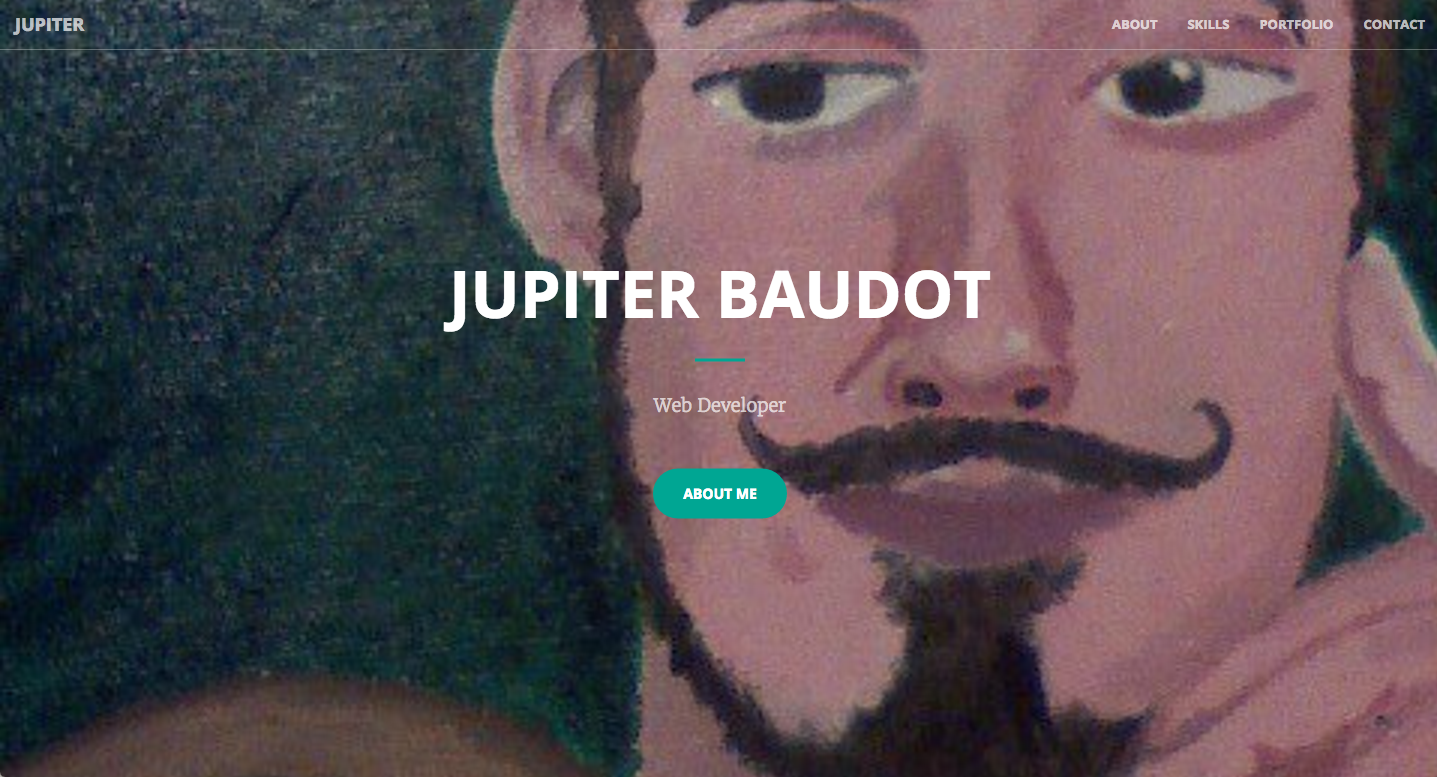
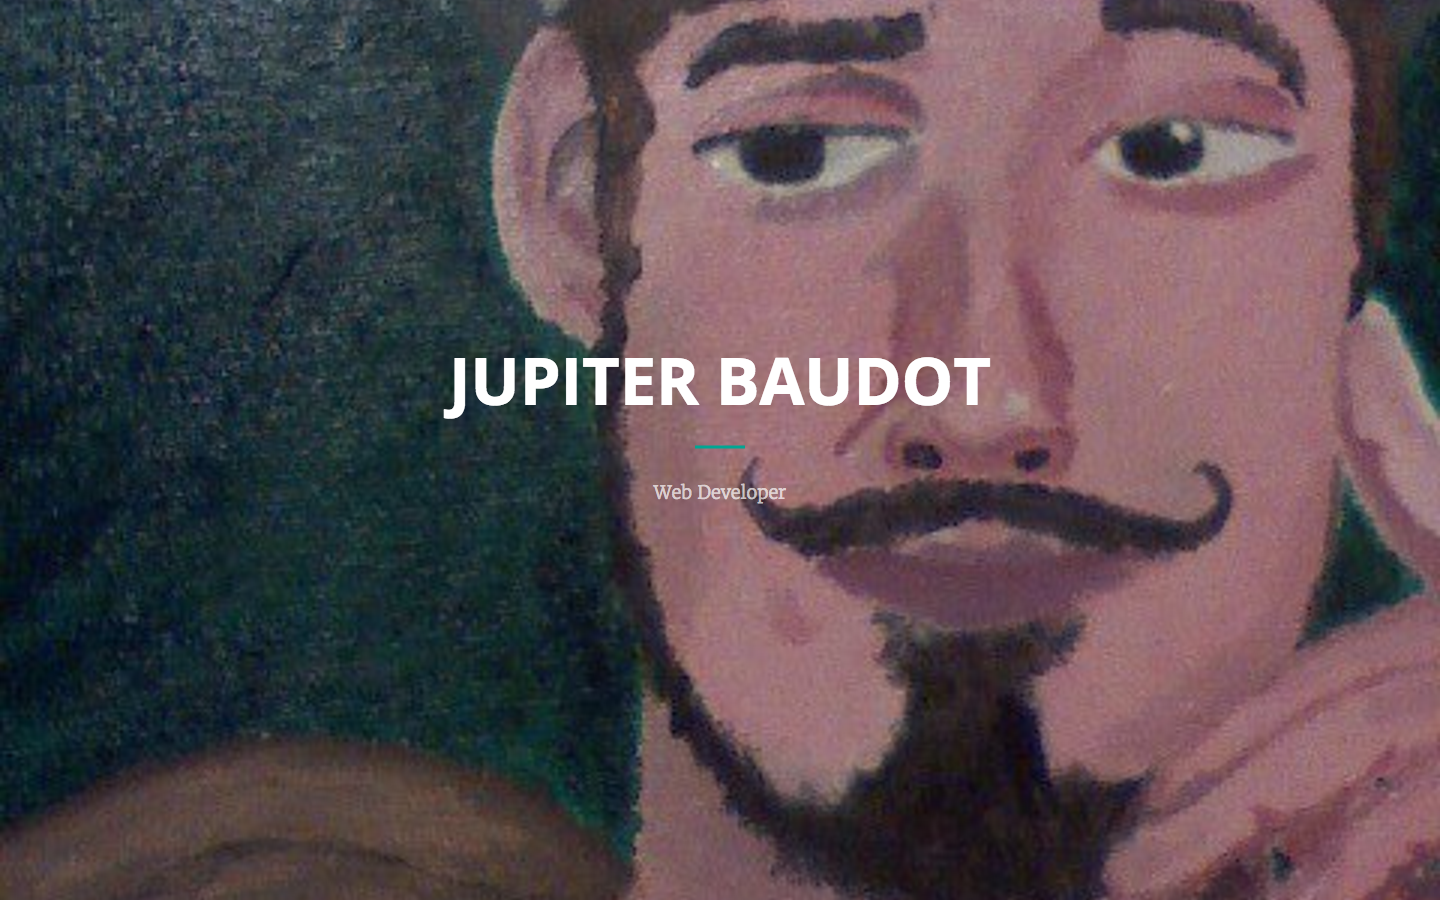
Add and proportion contact and skills

diff --git a/index.html b/index.html
@@ -10,10 +10,20 @@
     <a-scene>
 
 
+       <a-curvedimage src="../images/intro_page.png" radius="5.7" theta-length="180" height="9" rotation="0 80 0" scale="1.2 1.2 1.2"></a-curvedimage>
+      <!--INTRO PAGE  -->
+<!--       <a-curvedimage src="../images/intro_page.png" radius="100" theta-length="200" height="200" position="-1 5 -10" rotation="0 100 0" scale="0.1 0.1 0.1"></a-curvedimage> -->
 
-      <a-curvedimage src="../images/Intro_page.png" radius="100" theta-length="200" height="200" position="-1 5 -5" rotation="0 100 0" scale="0.1 0.1 0.1"></a-curvedimage>
+      <!-- rotation moves the image around the camera -->
+      <a-curvedimage src="../images/skills.png" radius="15" theta-length="100" height="50" position="-35 -4 -10" rotation="0 -240 0" scale="1 1 1"></a-curvedimage>
 
-      <a-curvedimage src="../images/about_me.png"radius="100" theta-length="200" height="200" position="-1 5 10" rotation="0 -100 0" scale="0.1 0.1 0.1"></a-curvedimage>
+      <!-- CONTACTS -->
+<!--       <a-curvedimage src="../images/contacts_horizontal.png" radius="20" theta-length="150" height="80" position="25 20 -10" rotation="0 -30 0" scale=".4 .4 .4"></a-curvedimage> -->
+
+<a-curvedimage src="../images/contacts_horizontal.png" radius="8" theta-length="20" height="3" rotation="0 -80 0" position="70 3 100" scale="300 300 300"></a-curvedimage>
+
+      <!-- ABOUT ME -->
+      <a-curvedimage src="../images/about_me.png"radius="100" theta-length="200" height="200" position="-1 2 10" rotation="0 -100 0" scale="0.1 0.1 0.1"></a-curvedimage>
 
       <a-sky color="#00a693"></a-sky>
     </a-scene>
